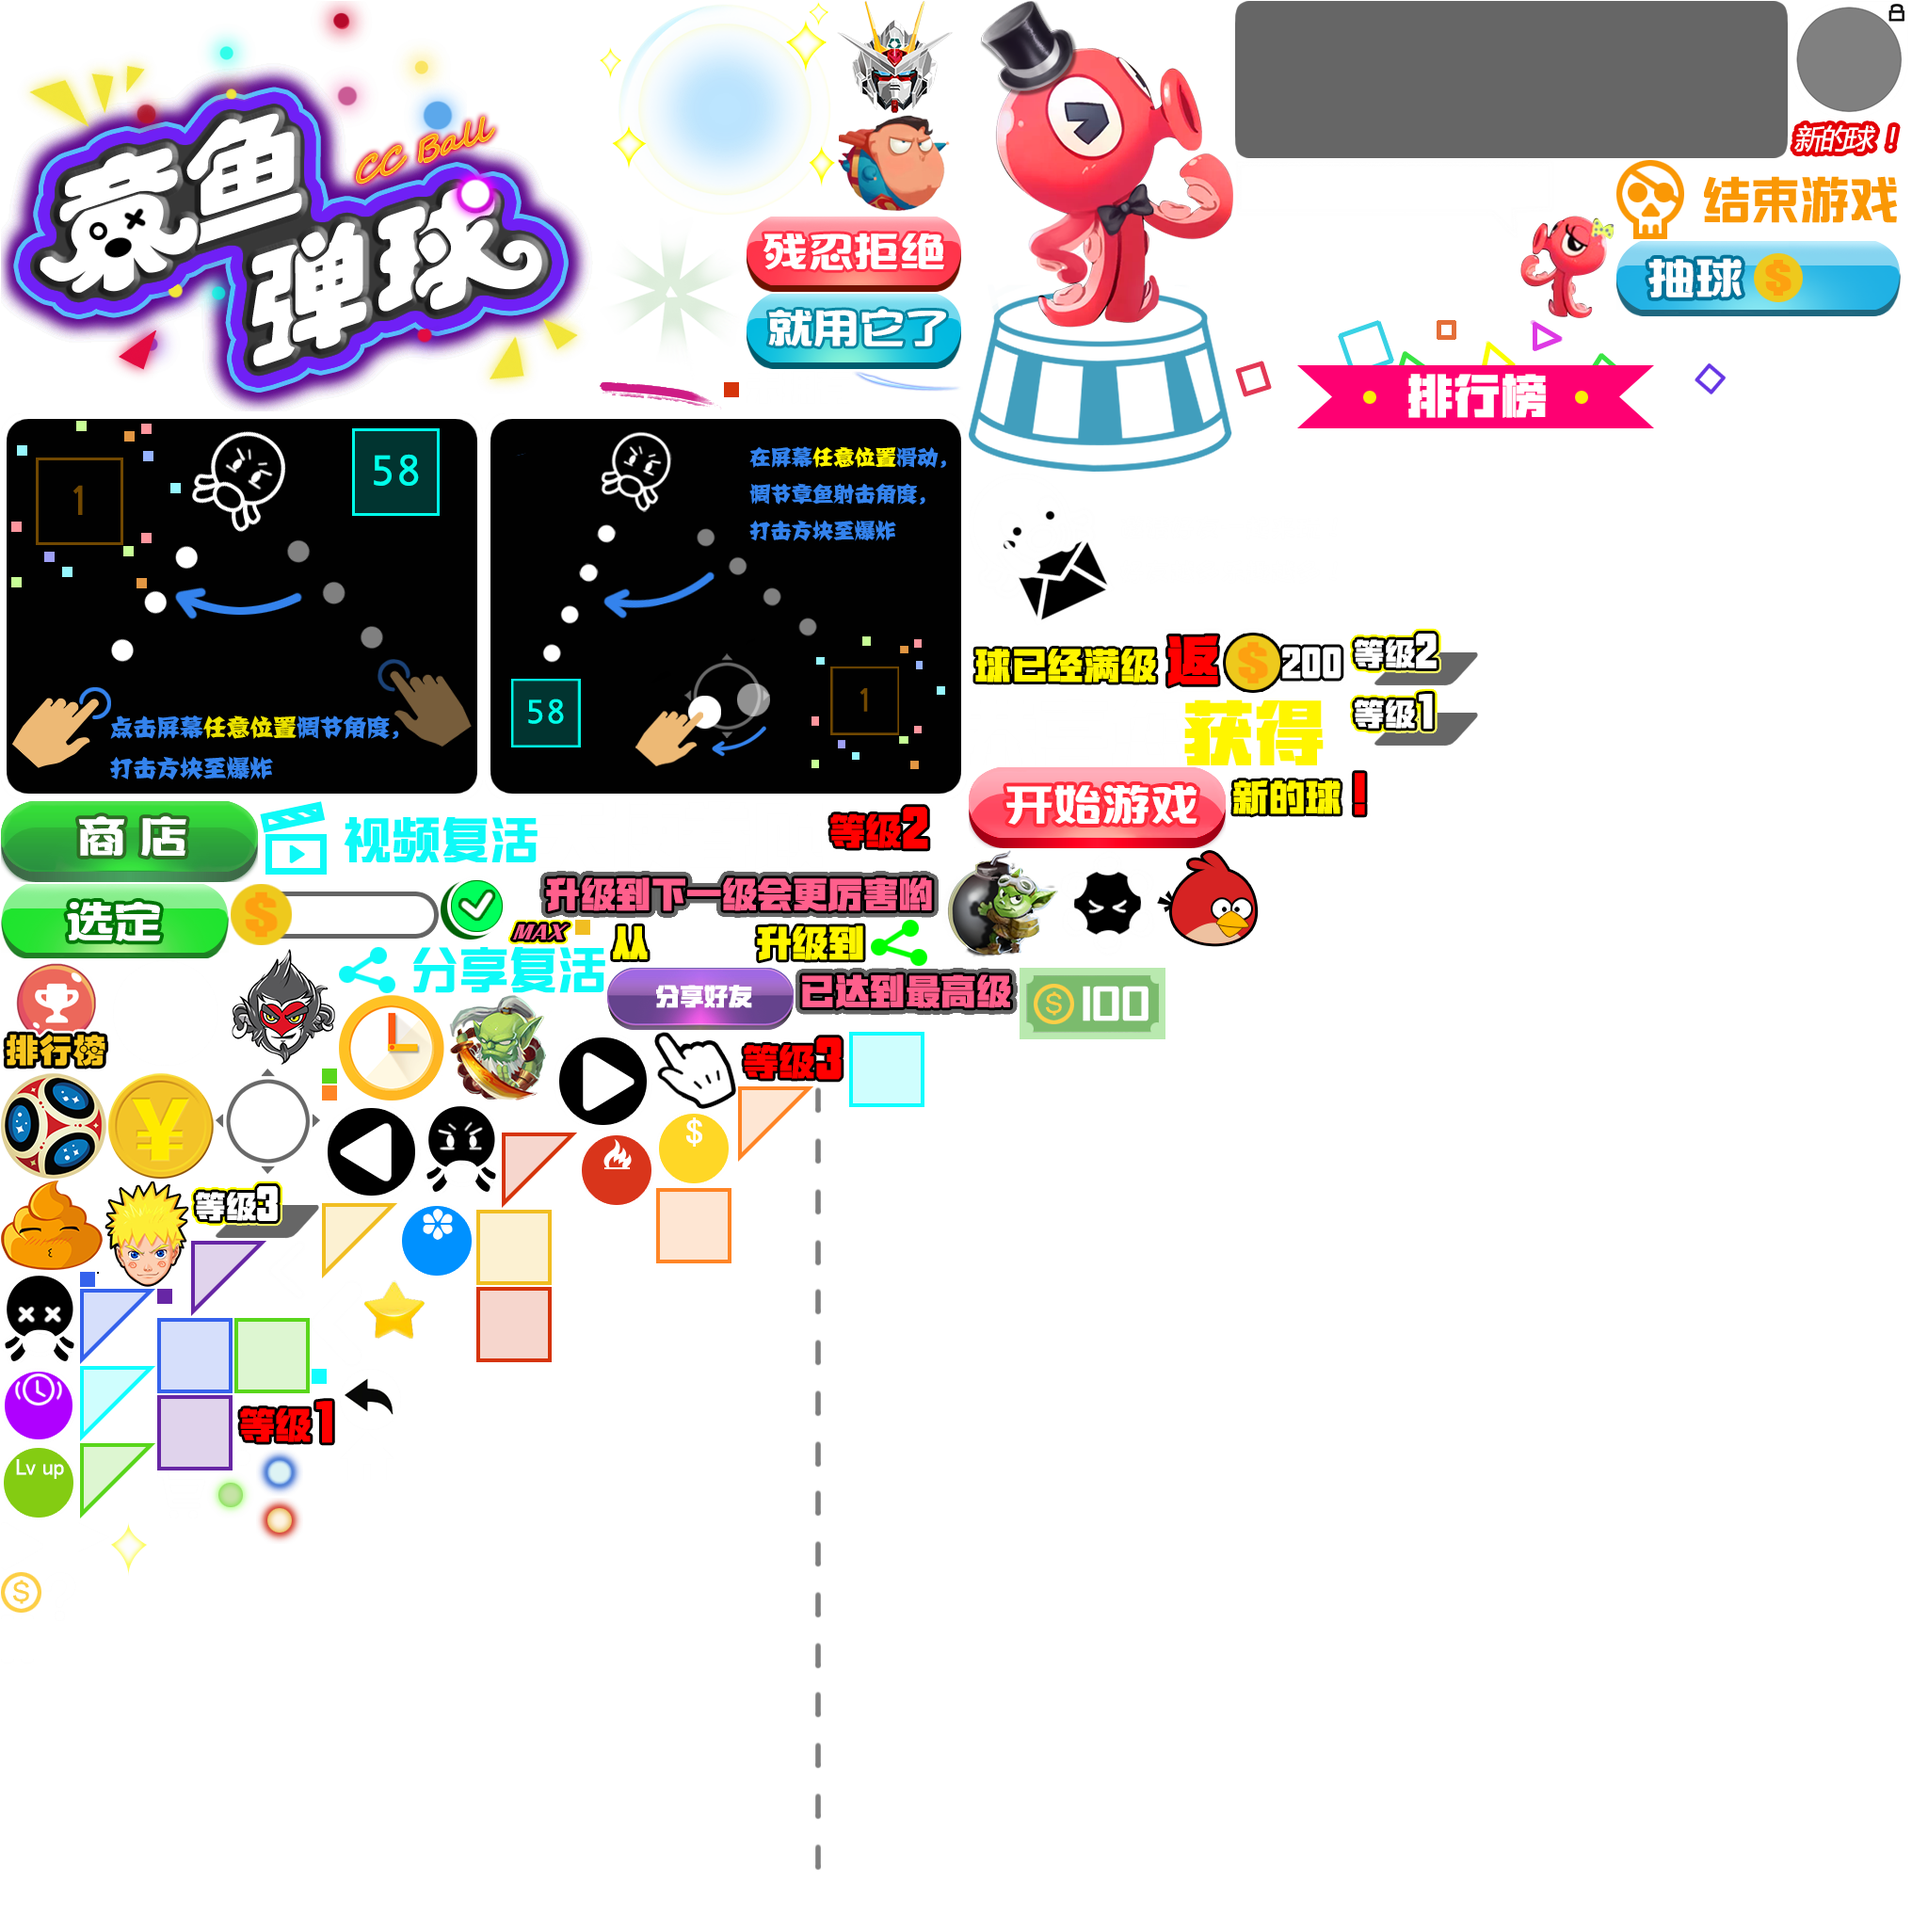
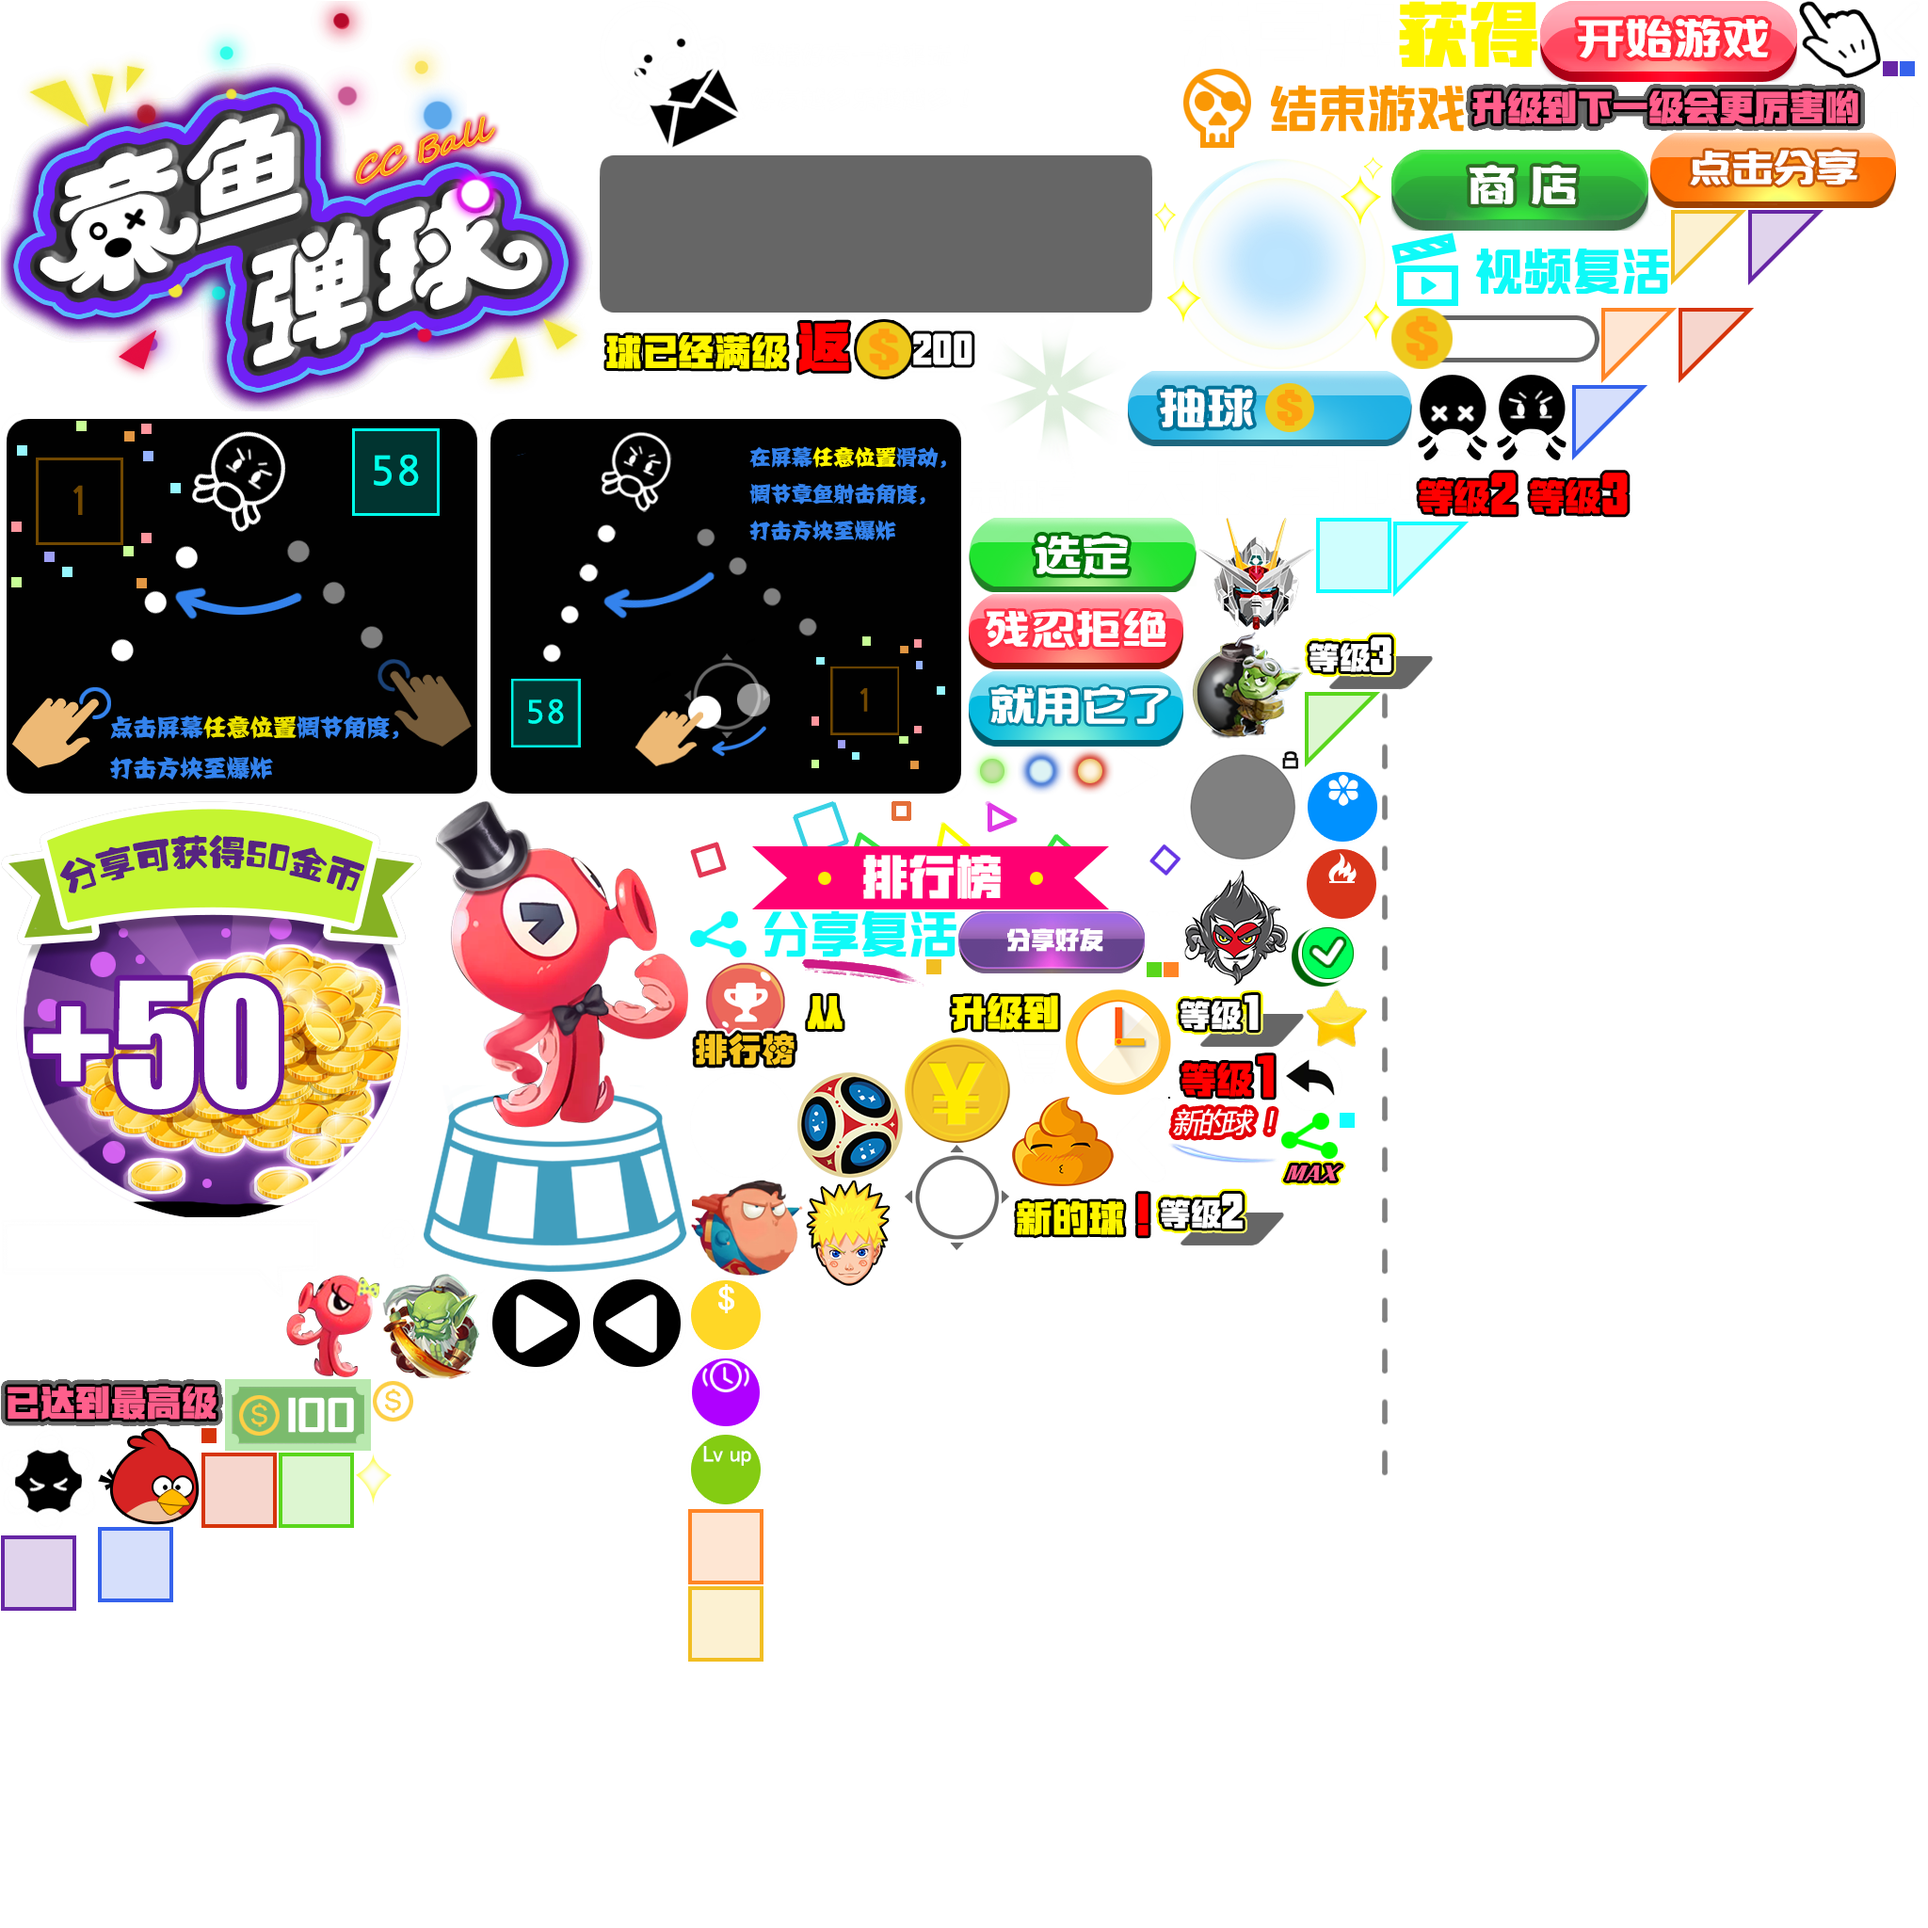
【商店】分享加金币

Changed region(s): [[0.0, 0.0, 1.0, 0.875]]

diff --git a/BallProject/src/GameView/SecondaryView/ShareView.ts b/BallProject/src/GameView/SecondaryView/ShareView.ts
@@ -1,0 +1,90 @@
+class ShareView extends egret.DisplayObjectContainer
+{
+	private resModule: IResModule;
+	private playerDataModule: IPlayerDataModule;
+	private adaptFactor: number;
+
+	private bgCover: FullScreenCover;
+	private callbackObj: any;
+	private callbackFun: Function;
+
+	private shareBg: egret.Bitmap;
+	private shareBtn: ShapeBgButton;
+
+	private coinBitmap: egret.Bitmap;
+	private coinText: egret.TextField;
+
+	public constructor()
+	{
+		super();
+		this.resModule = <IResModule>GameMain.GetInstance().GetModule(ModuleType.RES);
+		this.playerDataModule = <IPlayerDataModule>GameMain.GetInstance().GetModule(ModuleType.PLAYER_DATA);
+		this.adaptFactor = GameMain.GetInstance().GetStageWidth() / Screen_StanderScreenWidth;
+
+		this.CreateBgCover();
+		this.CreateCoinInfo();
+		this.CreateShareBtn();
+	}
+
+	public Init(callbackFun: Function, callbackObj: any)
+	{
+		this.callbackFun = callbackFun;
+		this.callbackObj = callbackObj;
+	}
+
+	private CreateBgCover()
+	{
+		this.bgCover = new FullScreenCover(0x000000, 0.7);
+		this.bgCover.touchEnabled = true;
+		this.addChild(this.bgCover);
+		this.bgCover.addEventListener(egret.TouchEvent.TOUCH_TAP, this.OnClickBack, this);
+	}
+
+	private OnClickBack()
+	{
+		Tools.DetachDisplayObjFromParent(this);
+		this.callbackFun(this.callbackObj);
+	}
+
+	private CreateCoinInfo()
+	{
+		this.coinBitmap = this.resModule.CreateBitmapByName("shopCoin");
+		this.coinBitmap.x = 320 * this.adaptFactor;
+		this.coinBitmap.y = 85;
+		Tools.SetAnchor(this.coinBitmap, AnchorType.Center);
+		this.addChild(this.coinBitmap);
+
+		this.coinText = new egret.TextField();
+		this.coinText.size = 40;
+		this.coinText.textColor = 0xFFFFFF;
+		this.coinText.textAlign = "center";
+		this.coinText.width = 400;
+		this.coinText.height = 100;
+		this.coinText.x = 340 * this.adaptFactor;
+		this.coinText.y = 115;
+		this.coinText.text = this.playerDataModule.GetCoin().toString();
+		Tools.SetAnchor(this.coinText, AnchorType.Center);
+		this.addChild(this.coinText);
+	}
+
+	private CreateShareBtn()
+	{
+		this.shareBg = this.resModule.CreateBitmap("pd_res_json.ShareGetCoinBg", GameMain.GetInstance().GetStageWidth() / 2, GameMain.GetInstance().GetStageHeight() / 2,
+			this, AnchorType.Center);
+
+		this.shareBtn = new ShapeBgButton(ShapeBgType.Rect, 0x00000000, 0, 0, "pd_res_json.ShareBtn", 400, 80, 261, 80, this.OnShare, this);
+		this.shareBtn.x = GameMain.GetInstance().GetStageWidth() / 2;
+		this.shareBtn.y = GameMain.GetInstance().GetStageHeight() / 2 + 200;
+		this.addChild(this.shareBtn);
+	}
+
+	private OnShare(callbackObj: any)
+	{
+		egret.log("OnShare");
+		GameMain.GetInstance().ShareAppMsg();
+		callbackObj.playerDataModule.AddCoin(Share_Add_Coin_Count);
+		callbackObj.playerDataModule.Save();
+		Tools.DetachDisplayObjFromParent(callbackObj);
+		callbackObj.callbackFun(callbackObj.callbackObj);
+	}
+}

diff --git a/BallProject/src/GameView/SecondaryView/ShopView.ts b/BallProject/src/GameView/SecondaryView/ShopView.ts
@@ -68,6 +68,7 @@ class ShopView extends egret.DisplayObjectContainer
     private shopDesBitmap: egret.Bitmap;
 
     private lottyView: LotteryView;
+    private shareView: ShareView;
 
     private adaptFactor: number;
 
@@ -715,16 +716,27 @@ class ShopView extends egret.DisplayObjectContainer
         }
         else
         {
-            var networkConfigModule = <INetworkConfigModule>GameMain.GetInstance().GetModule(ModuleType.NETWORK_CONFIG);
-            var networkConfig = networkConfigModule.GetNetWorkConfig();
-            var tips = "糟糕，金币不够!\n游戏中击破金币道具可以获得金币。";
-            if (networkConfig.EnableShare)
-            {
-                tips += "\n分享好友，金币可以翻倍哦~"
-            }
-            this.ShowTips(GameMain.GetInstance().GetStageWidth() / 2,
-                 GameMain.GetInstance().GetStageHeight() / 2, tips);
+            this.shareView = new ShareView();
+            this.shareView.Init(this.OnCloseShareView, this);
+            this.addChild(this.shareView);
+            
+            // var networkConfigModule = <INetworkConfigModule>GameMain.GetInstance().GetModule(ModuleType.NETWORK_CONFIG);
+            // var networkConfig = networkConfigModule.GetNetWorkConfig();
+            // var tips = "糟糕，金币不够!\n游戏中击破金币道具可以获得金币。";
+            // if (networkConfig.EnableShare)
+            // {
+            //     tips += "\n分享好友，金币可以翻倍哦~"
+            // }
+            // this.ShowTips(GameMain.GetInstance().GetStageWidth() / 2,
+            //      GameMain.GetInstance().GetStageHeight() / 2, tips);
+
+
         }
+    }
+
+    private OnCloseShareView(callbackObj: any)
+    {
+        egret.log("OnCloseShareView");
     }
 
     private tips: egret.TextField;

diff --git a/BallProject/src/GameConfig/GameConfig.ts b/BallProject/src/GameConfig/GameConfig.ts
@@ -113,3 +113,4 @@ const Box_Effect_Gold_Coin_Default = 3;         // 金币增加数量
 
 const Lotty_Ball_Cost = 200; // 抽球的加个
 const Lotty_Ball_Back = 160; // 抽球到已经有的球，返回的金币数量
+const Share_Add_Coin_Count = 50; // 分享获得金币数量
